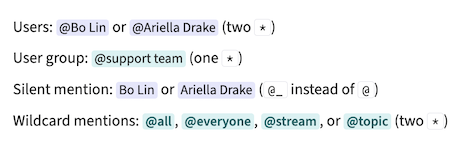
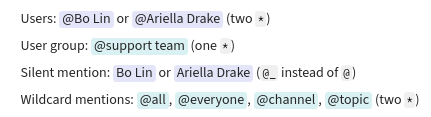
help-docs: Update wildcards for new channel wildcard.
Updates the mention everyone wildcards for the new channel wildcard
and removes references to the stream wildcard.

diff --git a/help/mention-a-user-or-group.md b/help/mention-a-user-or-group.md
@@ -73,13 +73,13 @@ streams](/help/stream-notifications).
 ## Mention everyone on a stream
 
 You can mention everyone on a stream with the `@**all**` mention (or,
-equivalently, `@**everyone**` or `@**stream**`). It's best to use these mentions
+equivalently, `@**everyone**` or `@**channel**`). It's best to use these mentions
 only when your message requires timely attention from many stream subscribers.
 An organization can be configured to
 [restrict](/help/restrict-wildcard-mentions) wildcard mentions in large streams.
 
 Users can disable notifications for `@**all**`, `@**everyone**`, and
-`@**stream**` mentions by:
+`@**channel**` mentions by:
 
 - Disabling notifications for wildcard mentions
 [globally](/help/dm-mention-alert-notifications) or for [individual

diff --git a/help/dm-mention-alert-notifications.md b/help/dm-mention-alert-notifications.md
@@ -30,7 +30,7 @@ messages) from desktop notifications.
 
 ## Wildcard mentions
 
-By default, wildcard mentions (`@**all**`, `@**everyone**`, `@**stream**`,
+By default, wildcard mentions (`@**all**`, `@**everyone**`, `@**channel**`,
 or `@**topic**`) trigger email/push notifications as though they were
 personal @-mentions. You can toggle whether you receive notifications
 for wildcard mentions.

diff --git a/help/include/mentions-examples.md b/help/include/mentions-examples.md
@@ -4,7 +4,7 @@
 Users: @**Bo Lin** or @**Ariella Drake|26** (two `*`)
 User group: @*support team* (one `*`)
 Silent mention: @_**Bo Lin** or @_**Ariella Drake|26** (`@_` instead of `@`)
-Wildcard mentions: @**all**, @**everyone**, @**stream**, or @**topic** (two `*`)
+Wildcard mentions: @**all**, @**everyone**, @**channel**, @**topic** (two `*`)
 ```
 
 !!! tip ""
